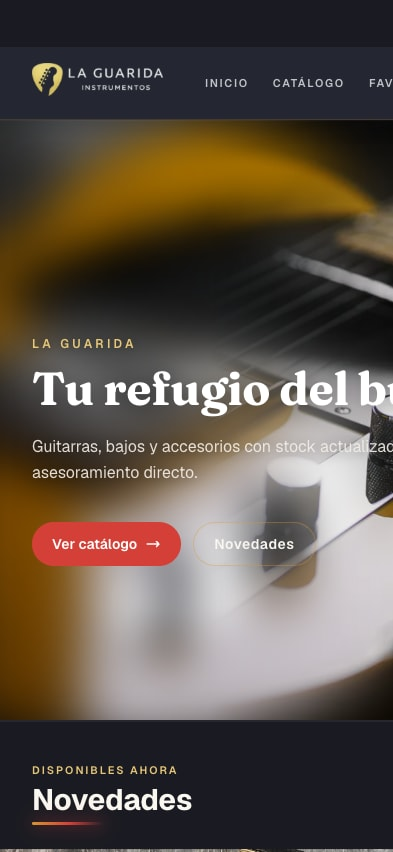
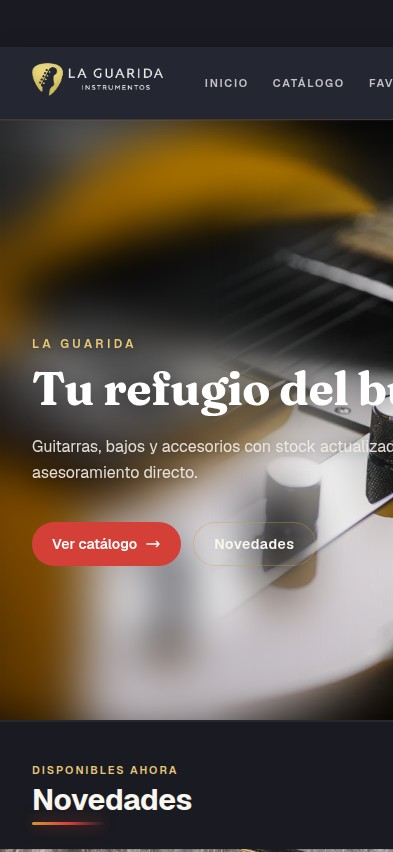
fix: mockups mobile sin recorte y capturas regeneradas
El bezel del teléfono alteraba el aspect ratio y object-fit: cover recortaba
los bordes. Pantalla 393/852, contain en mobile y capturas actualizadas.

Changed region(s): [[0.0916, 0.885, 0.4885, 0.946], [0.5191, 0.4577, 0.5496, 0.4883], [0.2443, 0.061, 0.2748, 0.0915]]

diff --git a/src/app/sections.css b/src/app/sections.css
@@ -650,7 +650,7 @@
     display: block;
     width: 100% !important;
     height: 100% !important;
-    object-fit: cover;
+    object-fit: contain;
     object-position: top center;
     transform: translateZ(0);
   }
@@ -659,7 +659,7 @@
     position: relative;
     z-index: 2;
     flex: 0 0 auto;
-    width: clamp(5.25rem, 34%, 7.25rem);
+    width: clamp(5.75rem, 38%, 8rem);
     margin-left: -1.85rem;
     aspect-ratio: 393 / 852;
     transition: transform 0.5s var(--ease-out);
@@ -668,9 +668,12 @@
   .device-mockup__phone-bezel {
     position: relative;
     box-sizing: border-box;
+    display: flex;
+    align-items: center;
+    justify-content: center;
     width: 100%;
     height: 100%;
-    padding: 0.32rem;
+    padding: 0.28rem;
     overflow: hidden;
     border-radius: 1.2rem;
     background: linear-gradient(165deg, #2c2c30 0%, #0a0a0c 48%, #16161a 100%);
@@ -683,7 +686,8 @@
   .device-mockup__phone-screen {
     position: relative;
     width: 100%;
-    height: 100%;
+    max-height: 100%;
+    aspect-ratio: 393 / 852;
     overflow: hidden;
     border-radius: 0.92rem;
     background: #050505;

diff --git a/src/components/DeviceMockup.tsx b/src/components/DeviceMockup.tsx
@@ -54,7 +54,7 @@ export function DeviceMockup({
                 alt={mobileAlt}
                 fill
                 quality={92}
-                sizes="(min-width: 768px) 160px, 120px"
+                sizes="(min-width: 768px) 200px, 160px"
                 className="device-mockup__shot device-mockup__shot--phone"
                 priority={priority}
                 loading={priority ? "eager" : "lazy"}
